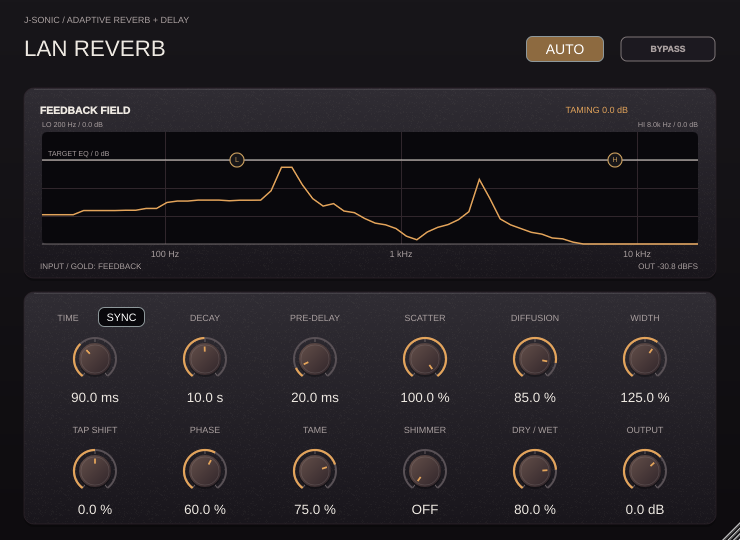
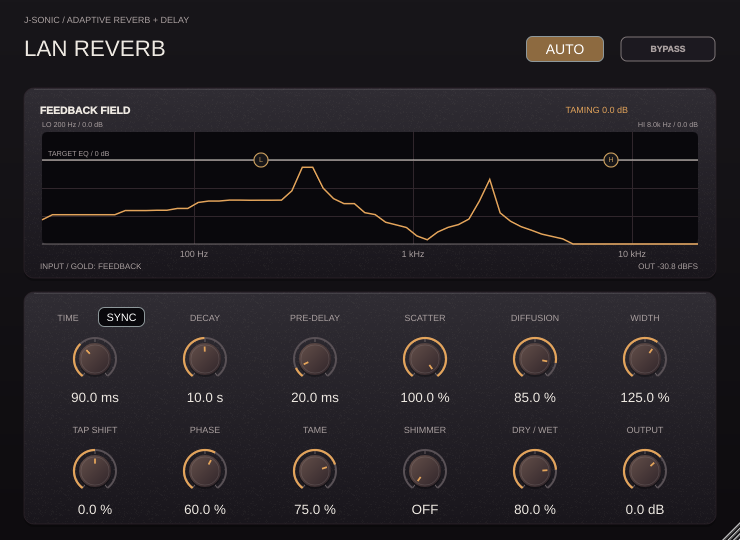
Expand Lan shelf frequencies and cap feedback boost at 3 dB

diff --git a/projects/LanReverb/Tests/ProcessorTests.cpp b/projects/LanReverb/Tests/ProcessorTests.cpp
@@ -183,8 +183,8 @@ struct ReverbEngineTestAccess
         check(high.magnitude(17000,48000) < .4 && high.magnitude(100,48000) > .99,"high shelf changes treble while preserving the lower band");
         // Exhaust actual uncompensated shelf gains at all frequency endpoints.
         for (double rate : {8000.,44100.,48000.,96000.,192000.})
-            for (float lf : {40.f,2000.f}) for (float hf : {2000.f,16000.f})
-                for (float lg : {-12.f,0.f,6.f}) for (float hg : {-12.f,0.f,6.f})
+            for (float lf : {20.f,20000.f}) for (float hf : {20.f,20000.f})
+                for (float lg : {-12.f,0.f,3.f}) for (float hg : {-12.f,0.f,3.f})
                 {
                     Settings s; s.automatic = false; s.lowShelfHz = lf; s.highShelfHz = hf; s.lowShelfDb = lg; s.highShelfDb = hg;
                     for (int point = 0; point < 128; ++point)
@@ -195,23 +195,40 @@ struct ReverbEngineTestAccess
                               "uncompensated shelf response stays within the individual gain endpoints");
                     }
                 }
-        Settings boosted; boosted.automatic = false; boosted.lowShelfDb = 6;
-        check(ReverbEngine::responseDb(boosted,{},30,48000) > 5.9,"low shelf provides the requested positive gain");
+        Settings boosted; boosted.automatic = false; boosted.lowShelfDb = 3;
+        check(ReverbEngine::responseDb(boosted,{},30,48000) > 2.9,"low shelf provides the requested positive gain");
         check(std::abs(ReverbEngine::responseDb(boosted,{},5000,48000)) < .01,"low shelf boost does not attenuate the unaffected high band");
-        boosted.lowShelfDb = 0; boosted.highShelfDb = 6;
-        check(ReverbEngine::responseDb(boosted,{},18000,48000) > 5.8,"high shelf provides the requested positive gain");
+        boosted.lowShelfDb = 0; boosted.highShelfDb = 3;
+        check(ReverbEngine::responseDb(boosted,{},18000,48000) > 2.8,"high shelf provides the requested positive gain");
         check(std::abs(ReverbEngine::responseDb(boosted,{},100,48000)) < .01,"high shelf boost does not attenuate the unaffected low band");
+        for (bool highShelf : {false,true})
+        {
+            ReverbEngine::Filter capped, requested;
+            capped.shelf(highShelf,1234.5,3,48000);
+            requested.shelf(highShelf,1234.5,6,48000);
+            for (double hz : {20.,1234.5,20000.})
+                check(std::abs(capped.magnitude(hz,48000)-requested.magnitude(hz,48000)) < 1e-12,
+                      "DSP clamps legacy or out-of-range shelf boost to three dB");
+            // A low shelf may reach the treble and a high shelf may reach the bass.
+            requested.shelf(highShelf,highShelf ? 80.25 : 16000.5,3,48000);
+            check(std::abs(20*std::log10(requested.magnitude(highShelf ? 80.25 : 16000.5,48000))-1.5) < 1e-6,
+                  "either shelf reaches its requested arbitrary frequency without the old band restriction");
+            requested.shelf(highShelf,20000,3,8000);
+            capped.shelf(highShelf,3920,3,8000);
+            check(std::abs(capped.magnitude(3800,8000)-requested.magnitude(3800,8000)) < 1e-12,
+                  "shelf frequency remains below Nyquist at low sample rates");
+        }
         // Exercise actual feedback filter state, not only coefficient formulas.
         ReverbEngine::Bank bank; bank.count = 1; bank.shelfCount = 2;
         bank.filters[0][0].configure({1000,1000.f/14,-6},48000,1);
-        bank.shelves[0][0].shelf(false,200,-9,48000); bank.shelves[0][1].shelf(true,8000,6,48000);
+        bank.shelves[0][0].shelf(false,200,-9,48000); bank.shelves[0][1].shelf(true,8000,3,48000);
         std::array<double,3> frequencies {100,1000,10000}; std::array<std::complex<double>,3> measured {};
         for (int i = 0; i < 32768; ++i)
         {
             const auto y = bank.process(i == 0 ? 1.f : 0.f,0);
             for (size_t j = 0; j < frequencies.size(); ++j) measured[j] += double(y)*std::polar(1.,-juce::MathConstants<double>::twoPi*frequencies[j]*i/48000);
         }
-        Settings s; s.tame = 1; s.lowShelfDb = -9; s.highShelfDb = 6;
+        Settings s; s.tame = 1; s.lowShelfDb = -9; s.highShelfDb = 3;
         Analysis single; single.count = 1; single.bands[0] = {1000,1000.f/14,-6};
         for (size_t i = 0; i < frequencies.size(); ++i)
             check(std::abs(20*std::log10(std::abs(measured[i]))-ReverbEngine::responseDb(s,single,frequencies[i],48000)) < .001,
@@ -847,7 +864,7 @@ void sustainedFeedbackTests (const juce::File& directory)
     for (double rate : {44100.,48000.,96000.})
     {
         double reference = 0;
-        for (float boost : {0.f,6.f})
+        for (float boost : {0.f,3.f})
         {
             lan::Settings settings; settings.automatic = false; settings.scatter = 0; settings.phase = 0;
             settings.timeMs = 20; settings.predelayMs = 0; settings.decaySeconds = 40; settings.mix = 1; settings.width = 1;
@@ -898,7 +915,7 @@ void sustainedFeedbackTests (const juce::File& directory)
     for (double rate : {8000.,48000.,192000.})
     {
         lan::ReverbEngine engine; engine.prepare(rate,false); lan::Settings s;
-        s.lowShelfDb = s.highShelfDb = 6; s.shimmer = 1; s.automatic = false; s.decaySeconds = 40; s.mix = 1;
+        s.lowShelfDb = s.highShelfDb = 3; s.shimmer = 1; s.automatic = false; s.decaySeconds = 40; s.mix = 1;
         for (int at = 0; at < int(rate*4); at += 128)
         {
             juce::AudioBuffer<float> audio(2,128); audio.clear(); if (at == 0) { audio.setSample(0,0,.01f); audio.setSample(1,0,-.01f); }
@@ -910,8 +927,8 @@ void sustainedFeedbackTests (const juce::File& directory)
     }
     LanReverbProcessor processor;
     check(std::isfinite(processor.getTailLengthSeconds()),"neutral shelves keep the ordinary finite tail report");
-    set(processor,"lowShelfDb",6); check(std::isinf(processor.getTailLengthSeconds()),"sustained boosted feedback still reports a potentially infinite tail");
-    set(processor,"lowShelfDb",0); set(processor,"highShelfDb",6);
+    set(processor,"lowShelfDb",3); check(std::isinf(processor.getTailLengthSeconds()),"sustained boosted feedback still reports a potentially infinite tail");
+    set(processor,"lowShelfDb",0); set(processor,"highShelfDb",3);
     check(std::isinf(processor.getTailLengthSeconds()),"high shelf boost also retains the potentially infinite tail report");
 }
 void shimmerTests (const juce::File& directory)
@@ -1020,19 +1037,19 @@ void editorTests (const juce::File& destination)
         if (auto* handle = dynamic_cast<SpectrumShelfHandle*>(child))
         {
             const auto high = handle->getName() == "High shelf";
-            const auto hz = high ? 5000.f : 300.f;
-            const juce::Point<float> position {float(42+656*std::log(hz/30)/std::log(18000./30)),181};
+            const auto hz = high ? 80.25f : 16000.5f;
+            const juce::Point<float> position {float(42+656*std::log(hz/20)/std::log(20000./20)),181};
             const auto now = juce::Time::getCurrentTime();
             juce::MouseEvent event(juce::Desktop::getInstance().getMainMouseSource(),position,juce::ModifierKeys::leftButtonModifier,1,0,0,0,0,editor.get(),editor.get(),now,position,now,1,true);
             handle->mouseDown(event); handle->mouseDrag(event);
-            check(std::abs(p.parameters.getRawParameterValue(high ? "highShelfHz" : "lowShelfHz")->load()-hz) < 2,"shelf horizontal drag updates the host frequency");
+            check(std::abs(p.parameters.getRawParameterValue(high ? "highShelfHz" : "lowShelfHz")->load()-hz) < .1,"shelf horizontal drag updates the host frequency");
             check(std::abs(p.parameters.getRawParameterValue(high ? "highShelfDb" : "lowShelfDb")->load()+6) < .11,"shelf vertical drag updates the host gain");
             handle->mouseDoubleClick(event); handle->mouseUp(event);
             check(std::abs(p.parameters.getRawParameterValue(high ? "highShelfDb" : "lowShelfDb")->load()) < .01,"double-click restores a neutral shelf");
             const auto aboveZero = event.withNewPosition(juce::Point<float>{position.x,140.f});
             handle->mouseDown(aboveZero); handle->mouseDrag(aboveZero); handle->mouseUp(aboveZero);
-            check(p.parameters.getRawParameterValue(high ? "highShelfDb" : "lowShelfDb")->load() > 5,"dragging above the zero line applies positive shelf gain");
-            check(p.parameters.getParameter(high ? "highShelfDb" : "lowShelfDb")->getNormalisableRange().end >= 6,"host automation exposes positive shelf gain");
+            check(std::abs(p.parameters.getRawParameterValue(high ? "highShelfDb" : "lowShelfDb")->load()-3) < .001,"dragging above the zero line caps shelf gain at three dB");
+            check(std::abs(p.parameters.getParameter(high ? "highShelfDb" : "lowShelfDb")->getNormalisableRange().end-3) < .001,"host automation caps shelf boost at three dB");
             check(handle->getTooltip().endsWithChar('.'),"draggable shelf has a one-sentence hint"); ++shelves;
         }
     check(shelves == 2,"both draggable shelf handles are present");

diff --git a/projects/LanReverb/Tests/generate_report.py b/projects/LanReverb/Tests/generate_report.py
@@ -33,7 +33,7 @@ def main():
     axes[0].axvline(.5,ls="--",color="gray",label="Transparent below 0.5")
     axes[0].set(xlabel="Feedback vector norm before limiting",ylabel="Norm after limiting",ylim=(0,1.1)); axes[0].legend(fontsize=8)
     for rate in np.unique(sustain["rate"]):
-        for boost in [0,6]:
+        for boost in [0,3]:
             rows = sustain[(sustain["rate"] == rate)&(sustain["boost_db"] == boost)]
             axes[1].plot(rows["time_s"],20*np.log10(np.maximum(rows["rms"],1e-15)),ls="--" if boost == 0 else "-",label=f"{rate/1000:g} kHz / +{boost:g} dB shelf")
     axes[1].set(xlabel="Time after impulse (s)",ylabel="Wet RMS (dBFS)",title="Shelf boost sustains a bounded tail after a single impulse")
@@ -204,7 +204,7 @@ All remaining measurements below use Scatter 100%. Intermediate settings can int
 
 A single 1 kHz tamer band at maximum strength must measure −6 dB at its center and approximately half the previous half-depth bandwidth. The comparison holds depth at −6 dB in both conditions to isolate width, rather than comparing the old 18 dB depth. The EQ uses half the detector's width and allows Q 28; the source-protection and detection widths are unchanged. Three deliberately overlapping test bands at 1,000/1,050/1,100 Hz must never exceed 6 dB of combined attenuation across 4,096 sampled frequencies. The shared cut budget provides the corresponding static bound even between sampled points.
 
-Direct production shelf filters verify bass/treble selectivity. Exhaustive corner tests span 8/44.1/48/96/192 kHz, both frequency endpoints, gains −12/0/+6 dB, and 128 spectral points for every combination. Each raw shelf cascade must remain between the sums of its negative and positive gain endpoints. Separate tests require actual low/high boost near +6 dB while the opposite band remains neutral, verifying that no compensation is applied. A rendered impulse through the actual feedback bank (tamer plus both shelves) must match the display curve at 100/1,000/10,000 Hz. The source-routing test above enables shelves too and still requires unchanged first wet arrivals. Native editor tests exercise both drag axes, host parameter updates, positive dragging above 0 dB, double-click reset and scaled hit testing. The pale curve shows target settings; audio follows through the 250 ms bank transition.
+Direct production shelf filters verify bass/treble selectivity. Exhaustive corner tests span 8/44.1/48/96/192 kHz, both 20 Hz/20 kHz frequency endpoints, gains −12/0/+3 dB, and 128 spectral points for every combination. Each raw shelf cascade must remain between the sums of its negative and positive gain endpoints. Separate tests require actual low/high boost near +3 dB while the opposite band remains neutral, verifying that no compensation is applied. A rendered impulse through the actual feedback bank (tamer plus both shelves) must match the display curve at 100/1,000/10,000 Hz. The source-routing test above enables shelves too and still requires unchanged first wet arrivals. Additional checks verify fractional transition frequencies outside the former bass/treble limits, clamping legacy +6 dB requests to +3 dB, and a 98%-of-Nyquist frequency ceiling at 8 kHz. Native editor tests drag the low shelf to 16,000.5 Hz and the high shelf to 80.25 Hz, verify host updates and the +3 dB drag/automation cap, double-click reset and scaled hit testing. The pale curve shows target settings; audio follows through the 250 ms bank transition.
 
 ## Bounded sustained feedback
 
@@ -212,9 +212,9 @@ Direct production shelf filters verify bass/treble selectivity. Exhaustive corne
 
 A linked limiter measures the norm of the eight returning feedback lines after nominal decay gain and before fresh input injection. It is exactly transparent at norms up to 0.5, then smoothly approaches norm 1. A single gain preserves the line ratios. Unit tests verify monotonicity, bounded output, transparency, shared scaling, extreme finite values and nonfinite containment. A sub-knee feedback vector must survive 100,000 unity-gain circulations bit-for-bit unchanged: the limiter adds no leakage or mandatory decay.
 
-At 44.1/48/96 kHz, a stereo 0.001-amplitude impulse feeds Time 20 ms, Decay 40 s, Pre-delay 0, Scatter 0%, Phase 0%, Width 100%, Mix 100%, Output 0 dB and Auto Off. The low shelf is at 2 kHz, either neutral or +6 dB, and the high shelf remains neutral. Twelve seconds are rendered after that single impulse. Boost enters through the 20 ms warm-up and 250 ms EQ fade. Boosted 10–12 s tail power must exceed the neutral result by a factor of 1,000 and remain audible; it must stay within a factor of two of its own 6–8 s power, demonstrating a bounded sustained level rather than continued growth or forced decay. Every sample in this matched-delay fixture must remain finite and below magnitude 1.001. This verifies twelve seconds of actual sustain, not a finite-duration proof of infinite reverb for every setting.
+At 44.1/48/96 kHz, a stereo 0.001-amplitude impulse feeds Time 20 ms, Decay 40 s, Pre-delay 0, Scatter 0%, Phase 0%, Width 100%, Mix 100%, Output 0 dB and Auto Off. The low shelf is at 2 kHz, either neutral or +3 dB, and the high shelf remains neutral. Twelve seconds are rendered after that single impulse. Boost enters through the 20 ms warm-up and 250 ms EQ fade. Boosted 10–12 s tail power must exceed the neutral result by a factor of 1,000 and remain audible; it must stay within a factor of two of its own 6–8 s power, demonstrating a bounded sustained level rather than continued growth or forced decay. Every sample in this matched-delay fixture must remain finite and below magnitude 1.001. This verifies twelve seconds of actual sustain, not a finite-duration proof of infinite reverb for every setting.
 
-Further checks run dense reverb with both shelves at +6 dB, Shimmer on, Phase dispersion and Auto Off for four seconds at 8/48/192 kHz; both channels must stay finite and below magnitude 3. A separate louder impulse must produce first wet arrivals above magnitude 1.2, confirming the stabilizer does not clamp fresh source injection or serve as a final output limiter. Existing dry and first-arrival routing checks remain active. Positive shelves retain their uncompensated frequency response and potentially infinite host tail report. Gain balance, damping and spectral correction can still cause some settings to decay; sustained modes may change timbre. The limiter permits sustained feedback rather than guaranteeing a frozen waveform.
+Further checks run dense reverb with both shelves at +3 dB, Shimmer on, Phase dispersion and Auto Off for four seconds at 8/48/192 kHz; both channels must stay finite and below magnitude 3. A separate louder impulse must produce first wet arrivals above magnitude 1.2, confirming the stabilizer does not clamp fresh source injection or serve as a final output limiter. Existing dry and first-arrival routing checks remain active. Positive shelves retain their uncompensated frequency response and potentially infinite host tail report. Gain balance, damping and spectral correction can still cause some settings to decay; sustained modes may change timbre. The limiter permits sustained feedback rather than guaranteeing a frozen waveform.
 
 ## Oversampled octave Shimmer
 

diff --git a/projects/LanReverb/Source/PluginEditor.cpp b/projects/LanReverb/Source/PluginEditor.cpp
@@ -88,9 +88,9 @@ void LanReverbEditor::updateTimeMode()
 void LanReverbEditor::moveShelf (int which, juce::Point<float> position)
 {
     const auto rate = processor.getSampleRate() > 0 ? processor.getSampleRate() : 48000.;
-    const auto ceiling = std::min(18000.,rate*.43);
-    const auto frequency = 30*std::pow(ceiling/30,std::clamp((position.x-42)/656.f,0.f,1.f));
-    const auto gain = std::clamp((160-position.y)/3.5f,-12.f,6.f);
+    const auto ceiling = lan::shelfFrequencyCeiling(rate);
+    const auto frequency = lan::shelfMinHz*std::pow(ceiling/lan::shelfMinHz,std::clamp((position.x-42)/656.f,0.f,1.f));
+    const auto gain = std::clamp((160-position.y)/3.5f,-12.f,lan::shelfMaxBoostDb);
     auto* frequencyParameter = processor.parameters.getParameter(which == 0 ? "lowShelfHz" : "highShelfHz");
     auto* gainParameter = processor.parameters.getParameter(which == 0 ? "lowShelfDb" : "highShelfDb");
     frequencyParameter->setValueNotifyingHost(frequencyParameter->convertTo0to1(float(frequency)));
@@ -100,12 +100,12 @@ void LanReverbEditor::moveShelf (int which, juce::Point<float> position)
 void LanReverbEditor::updateShelves()
 {
     const auto s = processor.settings(); const auto rate = processor.getSampleRate() > 0 ? processor.getSampleRate() : 48000.;
-    const auto ceiling = std::min(18000.,rate*.43);
+    const auto ceiling = lan::shelfFrequencyCeiling(rate);
     for (int i = 0; i < 2; ++i)
     {
-        const auto hz = std::clamp(double(i == 0 ? s.lowShelfHz : s.highShelfHz),30.,ceiling);
+        const auto hz = std::clamp(double(i == 0 ? s.lowShelfHz : s.highShelfHz),double(lan::shelfMinHz),ceiling);
         const auto gain = i == 0 ? s.lowShelfDb : s.highShelfDb;
-        const auto x = 42+656*std::log(hz/30)/std::log(ceiling/30); const auto y = 160-gain*3.5f;
+        const auto x = 42+656*std::log(hz/lan::shelfMinHz)/std::log(ceiling/lan::shelfMinHz); const auto y = 160-gain*3.5f;
         shelfHandles[size_t(i)].setBounds(juce::roundToInt(x)-8,juce::roundToInt(y)-8,16,16);
     }
 }
@@ -151,11 +151,11 @@ void LanReverbEditor::paint (juce::Graphics& g)
     const juce::Rectangle<float> plot(42,132,656,112);
     g.setColour(inset); g.fillRoundedRectangle(plot,5);
     const auto rate = processor.getSampleRate() > 0 ? processor.getSampleRate() : 48000.;
-    const auto ceiling = float(std::min(18000.,rate*.43));
+    const auto ceiling = float(lan::shelfFrequencyCeiling(rate));
     for (float hz : {100.f,1000.f,10000.f})
     {
         if (hz > ceiling) continue;
-        const auto x = plot.getX()+plot.getWidth()*std::log(hz/30.f)/std::log(ceiling/30.f);
+        const auto x = plot.getX()+plot.getWidth()*std::log(hz/lan::shelfMinHz)/std::log(ceiling/lan::shelfMinHz);
         g.setColour(grid); g.drawVerticalLine(int(x),plot.getY(),plot.getBottom());
         g.setColour(secondary); g.drawText(hz < 1000 ? "100 Hz" : hz < 10000 ? "1 kHz" : "10 kHz",int(x)-24,246,48,16,juce::Justification::centred);
     }
@@ -165,7 +165,7 @@ void LanReverbEditor::paint (juce::Graphics& g)
         for (int band = 0; band < analysis.count; ++band)
         {
             const auto& b = analysis.bands[size_t(band)];
-            const auto x = plot.getX()+plot.getWidth()*std::log(std::max(30.f,b.frequency)/30.f)/std::log(ceiling/30.f);
+            const auto x = plot.getX()+plot.getWidth()*std::log(std::max(lan::shelfMinHz,b.frequency)/lan::shelfMinHz)/std::log(ceiling/lan::shelfMinHz);
             g.setColour(amber.withAlpha(.13f)); g.fillRect(juce::Rectangle<float>(x-4,plot.getY(),8,plot.getHeight()));
         }
         for (int which = 0; which < 2; ++which)
@@ -187,7 +187,7 @@ void LanReverbEditor::paint (juce::Graphics& g)
     juce::Path eq;
     for (int i = 0; i < 768; ++i)
     {
-        const auto hz = 30*std::pow(ceiling/30,i/767.);
+        const auto hz = lan::shelfMinHz*std::pow(ceiling/lan::shelfMinHz,i/767.);
         const auto db = lan::ReverbEngine::responseDb(settings,analysis,hz,rate);
         const auto x = plot.getX()+plot.getWidth()*i/767.f;
         const auto y = std::clamp(160-db*3.5f,plot.getY(),plot.getBottom());

diff --git a/projects/LanReverb/Source/ReverbEngine.cpp b/projects/LanReverb/Source/ReverbEngine.cpp
@@ -40,8 +40,8 @@ Analysis ResonanceAnalyser::analyse (const Frame& frame)
     const auto binHz = frame.rate/analysisSize;
     for (int row = 0; row < spectrumBins; ++row)
     {
-        const auto hz = 30*std::pow(std::min(18000.,frame.rate*.43)/30,row/double(spectrumBins-1));
-        const auto halfStep = std::sqrt(std::pow(std::min(18000.,frame.rate*.43)/30,1./(spectrumBins-1)));
+        const auto hz = shelfMinHz*std::pow(shelfFrequencyCeiling(frame.rate)/shelfMinHz,row/double(spectrumBins-1));
+        const auto halfStep = std::sqrt(std::pow(shelfFrequencyCeiling(frame.rate)/shelfMinHz,1./(spectrumBins-1)));
         const auto firstBin = std::clamp(int(std::floor(hz/halfStep/binHz)),1,analysisSize/2-1);
         const auto lastBin = std::clamp(int(std::ceil(hz*halfStep/binHz)),firstBin,analysisSize/2-1);
         double inputPeak = 0, feedbackPeak = 0;
@@ -297,8 +297,8 @@ void ReverbEngine::Filter::configure (const Band& band, double rate, float amoun
 }
 void ReverbEngine::Filter::shelf (bool high, double hz, double gainDb, double rate)
 {
-    const auto a = std::pow(10.,std::clamp(gainDb,-12.,6.)/40);
-    const auto omega = 2*pi*std::clamp(hz,20.,rate*.4)/rate;
+    const auto a = std::pow(10.,std::clamp(gainDb,-12.,double(shelfMaxBoostDb))/40);
+    const auto omega = 2*pi*std::clamp(hz,double(shelfMinHz),shelfFrequencyCeiling(rate))/rate;
     const auto c = std::cos(omega), beta = std::sqrt(2*a)*std::sin(omega);
     const auto sign = high ? 1. : -1.;
     const auto denominator = (a+1)-sign*(a-1)*c+beta;
@@ -560,8 +560,8 @@ void ReverbEngine::process (juce::AudioBuffer<float>& buffer, const Settings& se
     safeSettings.phase = std::clamp(safeSettings.phase,0.f,1.f);
     safeSettings.tame = std::clamp(safeSettings.tame,0.f,1.f);
     safeSettings.shimmer = std::clamp(safeSettings.shimmer,0.f,1.f);
-    safeSettings.lowShelfHz = std::clamp(safeSettings.lowShelfHz,40.f,2000.f); safeSettings.lowShelfDb = std::clamp(safeSettings.lowShelfDb,-12.f,6.f);
-    safeSettings.highShelfHz = std::clamp(safeSettings.highShelfHz,2000.f,16000.f); safeSettings.highShelfDb = std::clamp(safeSettings.highShelfDb,-12.f,6.f);
+    safeSettings.lowShelfHz = std::clamp(safeSettings.lowShelfHz,shelfMinHz,shelfMaxHz); safeSettings.lowShelfDb = std::clamp(safeSettings.lowShelfDb,-12.f,shelfMaxBoostDb);
+    safeSettings.highShelfHz = std::clamp(safeSettings.highShelfHz,shelfMinHz,shelfMaxHz); safeSettings.highShelfDb = std::clamp(safeSettings.highShelfDb,-12.f,shelfMaxBoostDb);
     const bool initial = first; update(safeSettings);
     const auto bypassed = safeSettings.bypass || hostBypass;
     if (initial) bypass.setCurrentAndTargetValue(bypassed ? 1.f : 0.f); else bypass.setTargetValue(bypassed ? 1.f : 0.f);

diff --git a/projects/LanReverb/Source/PluginProcessor.cpp b/projects/LanReverb/Source/PluginProcessor.cpp
@@ -25,10 +25,10 @@ juce::AudioProcessorValueTreeState::ParameterLayout LanReverbProcessor::createPa
     juce::StringArray notes;
     for (const auto& note : lan::noteLengths) notes.add(note.label);
     result.add(std::make_unique<juce::AudioParameterChoice>(juce::ParameterID{"note",1},"Time note length",notes,lan::defaultNote));
-    add("lowShelfHz","Low shelf frequency",40,2000,1,200,"Hz",.4f);
-    add("lowShelfDb","Low shelf gain",-12,6,.1f,0,"dB");
-    add("highShelfHz","High shelf frequency",2000,16000,1,8000,"Hz",.6f);
-    add("highShelfDb","High shelf gain",-12,6,.1f,0,"dB");
+    add("lowShelfHz","Low shelf frequency",lan::shelfMinHz,lan::shelfMaxHz,0,200,"Hz",.4f);
+    add("lowShelfDb","Low shelf gain",-12,lan::shelfMaxBoostDb,.1f,0,"dB");
+    add("highShelfHz","High shelf frequency",lan::shelfMinHz,lan::shelfMaxHz,0,8000,"Hz",.6f);
+    add("highShelfDb","High shelf gain",-12,lan::shelfMaxBoostDb,.1f,0,"dB");
     add("shimmer","Shimmer",0,100,.1f,0,"%");
     return result;
 }
@@ -43,8 +43,8 @@ lan::Settings LanReverbProcessor::settings() const
     s.timeMs = get("sync") >= .5f ? lan::noteTimeMs(juce::roundToInt(get("note")),hostTempo.load()) : get("time"); s.decaySeconds = get("decay"); s.predelayMs = get("predelay");
     s.scatter = get("scatter")*.01f; s.diffusion = get("diffusion")*.01f; s.width = get("width")*.01f; s.tap = get("tap")*.01f;
     s.phase = get("phase")*.01f; s.tame = get("tame")*.01f; s.mix = get("mix")*.01f; s.outputDb = get("output");
-    s.lowShelfHz = get("lowShelfHz"); s.lowShelfDb = std::clamp(get("lowShelfDb"),-12.f,6.f);
-    s.highShelfHz = get("highShelfHz"); s.highShelfDb = std::clamp(get("highShelfDb"),-12.f,6.f); s.shimmer = get("shimmer")*.01f;
+    s.lowShelfHz = get("lowShelfHz"); s.lowShelfDb = std::clamp(get("lowShelfDb"),-12.f,lan::shelfMaxBoostDb);
+    s.highShelfHz = get("highShelfHz"); s.highShelfDb = std::clamp(get("highShelfDb"),-12.f,lan::shelfMaxBoostDb); s.shimmer = get("shimmer")*.01f;
     s.automatic = get("automatic") >= .5f; s.bypass = get("bypass") >= .5f; return s;
 }
 juce::AudioProcessorParameter* LanReverbProcessor::getBypassParameter() const { return parameters.getParameter("bypass"); }

diff --git a/projects/LanReverb/Source/ReverbEngine.h b/projects/LanReverb/Source/ReverbEngine.h
@@ -17,6 +17,8 @@ struct Settings
 };
 inline constexpr int spectrumBins = 64, maxBands = 3, analysisSize = 4096;
 inline constexpr float tameLimitDb = 6;
+inline constexpr float shelfMinHz = 20, shelfMaxHz = 20000, shelfMaxBoostDb = 3;
+inline double shelfFrequencyCeiling (double rate) { return std::min(double(shelfMaxHz),rate*.49); }
 inline constexpr double feedbackKnee = .5, feedbackCeiling = 1;
 inline constexpr double phaseDelayLimitSeconds = .005, basePhaseBudgetSeconds = .001;
 inline constexpr double autoTapBudgetSeconds = .001;

diff --git a/projects/LanReverb/Source/SpectrumShelfHandle.h b/projects/LanReverb/Source/SpectrumShelfHandle.h
@@ -8,7 +8,7 @@ public:
     {
         setName(high ? "High shelf" : "Low shelf");
         setMouseCursor(juce::MouseCursor::DraggingHandCursor);
-        setTooltip("Drag horizontally for shelf frequency and vertically for gain, or double-click to reset the shelf.");
+        setTooltip("Drag across the full frequency range and vertically for up to +3 dB shelf gain, or double-click to reset.");
     }
     ~SpectrumShelfHandle() override { finishGesture(); }
     void paint (juce::Graphics& g) override

diff --git a/projects/LanReverb/Tests/Reports/README.md b/projects/LanReverb/Tests/Reports/README.md
@@ -48,7 +48,7 @@ All remaining measurements below use Scatter 100%. Intermediate settings can int
 
 A single 1 kHz tamer band at maximum strength must measure −6 dB at its center and approximately half the previous half-depth bandwidth. The comparison holds depth at −6 dB in both conditions to isolate width, rather than comparing the old 18 dB depth. The EQ uses half the detector's width and allows Q 28; the source-protection and detection widths are unchanged. Three deliberately overlapping test bands at 1,000/1,050/1,100 Hz must never exceed 6 dB of combined attenuation across 4,096 sampled frequencies. The shared cut budget provides the corresponding static bound even between sampled points.
 
-Direct production shelf filters verify bass/treble selectivity. Exhaustive corner tests span 8/44.1/48/96/192 kHz, both frequency endpoints, gains −12/0/+6 dB, and 128 spectral points for every combination. Each raw shelf cascade must remain between the sums of its negative and positive gain endpoints. Separate tests require actual low/high boost near +6 dB while the opposite band remains neutral, verifying that no compensation is applied. A rendered impulse through the actual feedback bank (tamer plus both shelves) must match the display curve at 100/1,000/10,000 Hz. The source-routing test above enables shelves too and still requires unchanged first wet arrivals. Native editor tests exercise both drag axes, host parameter updates, positive dragging above 0 dB, double-click reset and scaled hit testing. The pale curve shows target settings; audio follows through the 250 ms bank transition.
+Direct production shelf filters verify bass/treble selectivity. Exhaustive corner tests span 8/44.1/48/96/192 kHz, both 20 Hz/20 kHz frequency endpoints, gains −12/0/+3 dB, and 128 spectral points for every combination. Each raw shelf cascade must remain between the sums of its negative and positive gain endpoints. Separate tests require actual low/high boost near +3 dB while the opposite band remains neutral, verifying that no compensation is applied. A rendered impulse through the actual feedback bank (tamer plus both shelves) must match the display curve at 100/1,000/10,000 Hz. The source-routing test above enables shelves too and still requires unchanged first wet arrivals. Additional checks verify fractional transition frequencies outside the former bass/treble limits, clamping legacy +6 dB requests to +3 dB, and a 98%-of-Nyquist frequency ceiling at 8 kHz. Native editor tests drag the low shelf to 16,000.5 Hz and the high shelf to 80.25 Hz, verify host updates and the +3 dB drag/automation cap, double-click reset and scaled hit testing. The pale curve shows target settings; audio follows through the 250 ms bank transition.
 
 ## Bounded sustained feedback
 
@@ -56,9 +56,9 @@ Direct production shelf filters verify bass/treble selectivity. Exhaustive corne
 
 A linked limiter measures the norm of the eight returning feedback lines after nominal decay gain and before fresh input injection. It is exactly transparent at norms up to 0.5, then smoothly approaches norm 1. A single gain preserves the line ratios. Unit tests verify monotonicity, bounded output, transparency, shared scaling, extreme finite values and nonfinite containment. A sub-knee feedback vector must survive 100,000 unity-gain circulations bit-for-bit unchanged: the limiter adds no leakage or mandatory decay.
 
-At 44.1/48/96 kHz, a stereo 0.001-amplitude impulse feeds Time 20 ms, Decay 40 s, Pre-delay 0, Scatter 0%, Phase 0%, Width 100%, Mix 100%, Output 0 dB and Auto Off. The low shelf is at 2 kHz, either neutral or +6 dB, and the high shelf remains neutral. Twelve seconds are rendered after that single impulse. Boost enters through the 20 ms warm-up and 250 ms EQ fade. Boosted 10–12 s tail power must exceed the neutral result by a factor of 1,000 and remain audible; it must stay within a factor of two of its own 6–8 s power, demonstrating a bounded sustained level rather than continued growth or forced decay. Every sample in this matched-delay fixture must remain finite and below magnitude 1.001. This verifies twelve seconds of actual sustain, not a finite-duration proof of infinite reverb for every setting.
+At 44.1/48/96 kHz, a stereo 0.001-amplitude impulse feeds Time 20 ms, Decay 40 s, Pre-delay 0, Scatter 0%, Phase 0%, Width 100%, Mix 100%, Output 0 dB and Auto Off. The low shelf is at 2 kHz, either neutral or +3 dB, and the high shelf remains neutral. Twelve seconds are rendered after that single impulse. Boost enters through the 20 ms warm-up and 250 ms EQ fade. Boosted 10–12 s tail power must exceed the neutral result by a factor of 1,000 and remain audible; it must stay within a factor of two of its own 6–8 s power, demonstrating a bounded sustained level rather than continued growth or forced decay. Every sample in this matched-delay fixture must remain finite and below magnitude 1.001. This verifies twelve seconds of actual sustain, not a finite-duration proof of infinite reverb for every setting.
 
-Further checks run dense reverb with both shelves at +6 dB, Shimmer on, Phase dispersion and Auto Off for four seconds at 8/48/192 kHz; both channels must stay finite and below magnitude 3. A separate louder impulse must produce first wet arrivals above magnitude 1.2, confirming the stabilizer does not clamp fresh source injection or serve as a final output limiter. Existing dry and first-arrival routing checks remain active. Positive shelves retain their uncompensated frequency response and potentially infinite host tail report. Gain balance, damping and spectral correction can still cause some settings to decay; sustained modes may change timbre. The limiter permits sustained feedback rather than guaranteeing a frozen waveform.
+Further checks run dense reverb with both shelves at +3 dB, Shimmer on, Phase dispersion and Auto Off for four seconds at 8/48/192 kHz; both channels must stay finite and below magnitude 3. A separate louder impulse must produce first wet arrivals above magnitude 1.2, confirming the stabilizer does not clamp fresh source injection or serve as a final output limiter. Existing dry and first-arrival routing checks remain active. Positive shelves retain their uncompensated frequency response and potentially infinite host tail report. Gain balance, damping and spectral correction can still cause some settings to decay; sustained modes may change timbre. The limiter permits sustained feedback rather than guaranteeing a frozen waveform.
 
 ## Oversampled octave Shimmer
 

diff --git a/projects/LanReverb/README.md b/projects/LanReverb/README.md
@@ -20,8 +20,8 @@ feedback resonance control. Version **0.5.0**, by **J-Sonic Team**, **2026**.
 | Phase | 0–100% / 60% | All-pass phase dispersion and automatic phase/tap steering |
 | Tame | 0–100% / 75% | Strength of narrow automatic feedback EQ, sharing a 6 dB total cut budget |
 | Shimmer | 0–100% / Off | Adds a +12-semitone, 2× oversampled layer to the source feeding the delay network |
-| Low shelf handle | 40–2,000 Hz / 200 Hz; −12–+6 dB / 0 dB | Drag its L node horizontally for frequency and vertically for gain |
-| High shelf handle | 2,000–16,000 Hz / 8,000 Hz; −12–+6 dB / 0 dB | Drag its H node horizontally for frequency and vertically for gain |
+| Low shelf handle | 20–20,000 Hz / 200 Hz; −12–+3 dB / 0 dB | Drag its L node horizontally for frequency and vertically for gain |
+| High shelf handle | 20–20,000 Hz / 8,000 Hz; −12–+3 dB / 0 dB | Drag its H node horizontally for frequency and vertically for gain |
 | Dry / Wet | 0–100% / 80% | Linear mix, including true full-wet operation for sends |
 | Output | −24–12 dB / 0 dB | Final output gain |
 | Auto | On | Enables input-aware spectral peak analysis and automatic correction |
@@ -157,13 +157,16 @@ Drag the **L** and **H** handles on the spectrum horizontally to choose each
 shelf's transition frequency and vertically to set its gain. Double-click a
 handle to restore its default frequency and 0 dB. Both axes support host
 automation and session recall, and remain usable at 50%–120% UI scaling.
+Both shelves independently cover 20 Hz–20 kHz with continuous frequency values,
+and their transition frequencies can cross freely. At low sample rates,
+the display and DSP cap the frequency at 98% of Nyquist.
 The curve shows the requested EQ response, excluding level-dependent limiting;
 the feedback filter banks follow it
 through their existing 20 ms warm-up and 250 ms crossfade.
 
 Shelves process **feedback only**, including when Auto is off. They do not
 filter the dry signal or the first wet arrivals. Both shelves range from
-−12 dB to +6 dB, with the same limits for dragging and host automation.
+−12 dB to +3 dB, with the same limits for dragging and host automation.
 Positive gain is applied directly, with **no compensation** or reduction of
 other frequencies. Boosted bands can exceed unity around the feedback loop
 and sustain the tail after the input stops, even though the nominal Decay gains

diff --git a/projects/LanReverb/TOOLTIPS.md b/projects/LanReverb/TOOLTIPS.md
@@ -13,8 +13,8 @@
 | Phase | Sets feedback phase dispersion and correction across three resonance bands within a five-millisecond delay budget. |
 | Tame | Sets narrow feedback resonance attenuation within a shared six-decibel limit while protecting incoming notes. |
 | Shimmer | Adds an octave-up input layer to the feedback-loop injection using a twice-oversampled pitch shifter; Saves CPU when Off. |
-| Low shelf handle | Drag horizontally for shelf frequency and vertically for gain, or double-click to reset the shelf. |
-| High shelf handle | Drag horizontally for shelf frequency and vertically for gain, or double-click to reset the shelf. |
+| Low shelf handle | Drag across the full frequency range and vertically for up to +3 dB shelf gain, or double-click to reset. |
+| High shelf handle | Drag across the full frequency range and vertically for up to +3 dB shelf gain, or double-click to reset. |
 | Dry / Wet | Blends the immediate dry signal with the reverb and reaches a fully wet output at one hundred percent. |
 | Output | Adjusts the final output level after the dry and wet signals are mixed. |
 | Auto | Compares spectral peaks and frequency decay rates to guide input-protected feedback correction; Saves CPU when Off. |
